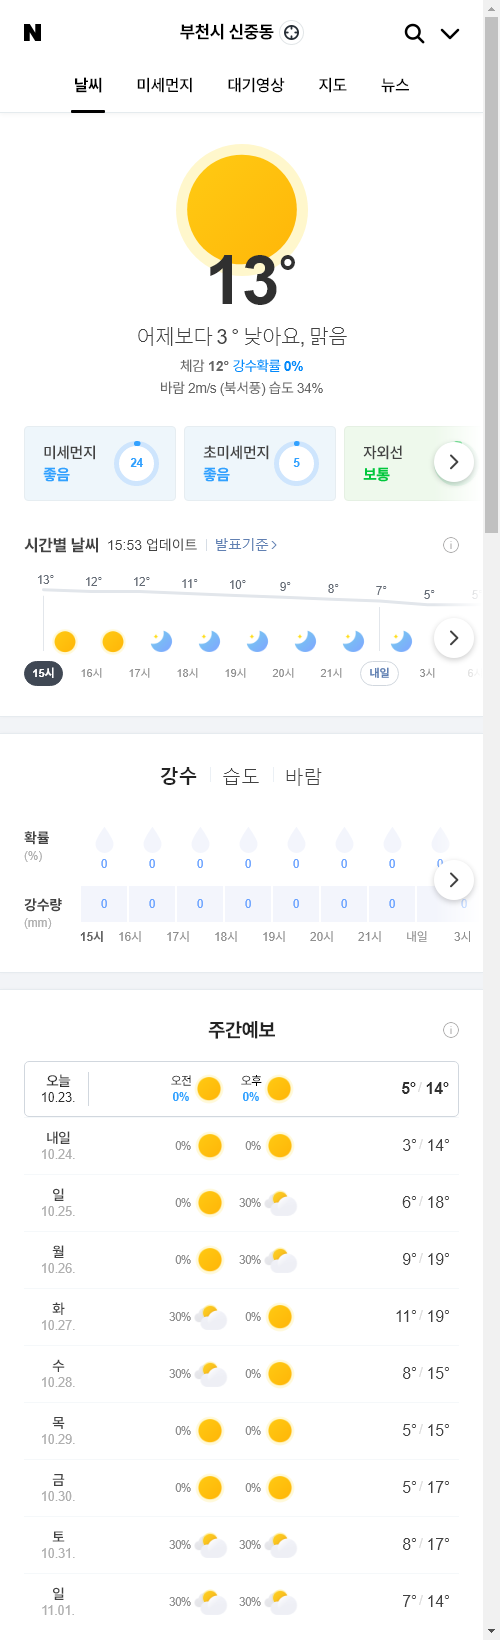
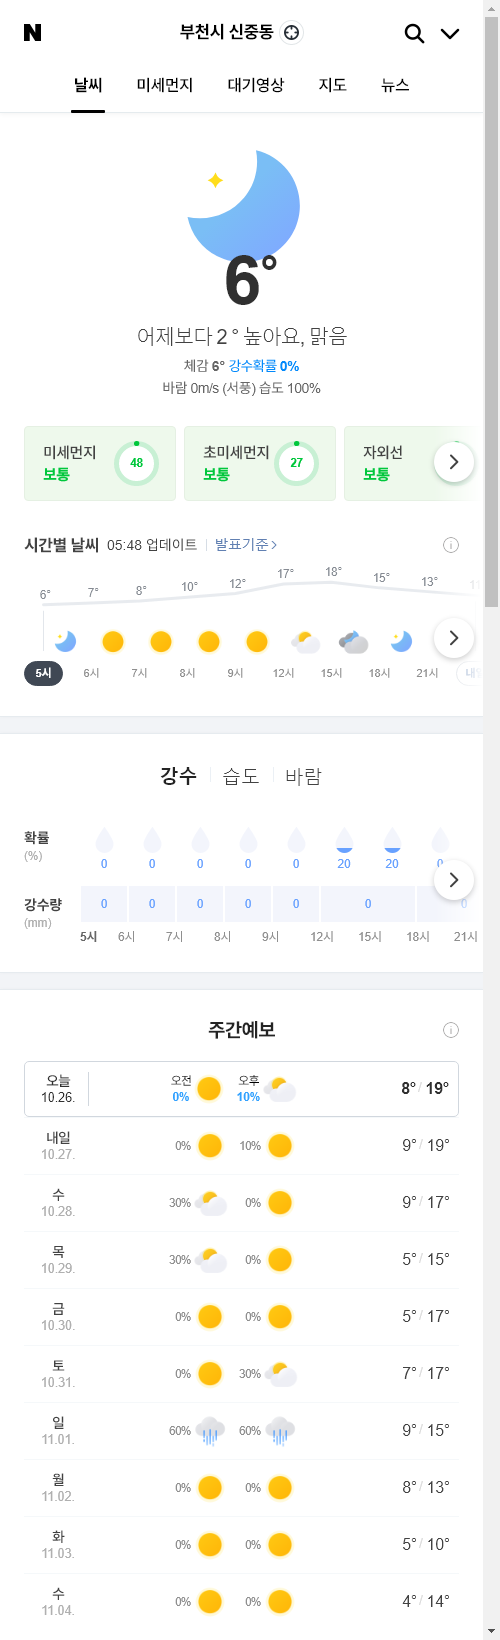
update result

diff --git a/README.md b/README.md
@@ -1,5 +1,5 @@
-##  2020-10-23 16:02:35   금요일 
-##### 날씨   -   어제보다 3 ° 낮아요, 맑음
+##  2020-10-26 05:54:33   월요일 
+##### 날씨   -   어제보다 2 ° 높아요, 맑음
 <center><img src="../img/naver_weather_week.png"></center>
 ----
 ----
@@ -13,19 +13,19 @@
 ##### 세계
 <table border="1" bordercolor="blue" align = "center" >
 <tr align = "right" > <td>Item</td><td>Point</td><td>Diff</td><td>Rate</td><td>Buy</td><td>Sell</td><td>...</td>  </tr>
-<tr align = "right" > <td>DOW</td><td>28,363.66</td><td>152.84</td><td><font size="3" color="red" >0.54%</font></td><td><font size="3" color="black">0</font></td><td><font size="3" color="black">0</font></td><td>0</td>  </tr>
-<tr align = "right" > <td>NASDAQ</td><td>11,506.01</td><td>21.32</td><td><font size="3" color="red" >0.19%</font></td><td><font size="3" color="black">0</font></td><td><font size="3" color="black">0</font></td><td>0</td>  </tr>
-<tr align = "right" > <td>S&P</td><td>3,453.49</td><td>17.93</td><td><font size="3" color="red" >0.52%</font></td><td><font size="3" color="black">0</font></td><td><font size="3" color="black">0</font></td><td>0</td>  </tr>
-<tr align = "right" > <td>SHANHAI</td><td>3,277.81</td><td>-34.69</td><td><font size="3" color="blue" >-1.05%</font></td><td><font size="3" color="black">0</font></td><td><font size="3" color="black">0</font></td><td>0</td>  </tr>
-<tr align = "right" > <td>INDIA</td><td>40,673.26</td><td>114.77</td><td><font size="3" color="red" >0.28%</font></td><td><font size="3" color="black">0</font></td><td><font size="3" color="black">0</font></td><td>0</td>  </tr>
+<tr align = "right" > <td>DOW</td><td>28,335.57</td><td>-28.09</td><td><font size="3" color="blue" >-0.1%</font></td><td><font size="3" color="black">0</font></td><td><font size="3" color="black">0</font></td><td>0</td>  </tr>
+<tr align = "right" > <td>NASDAQ</td><td>11,548.28</td><td>42.27</td><td><font size="3" color="red" >0.37%</font></td><td><font size="3" color="black">0</font></td><td><font size="3" color="black">0</font></td><td>0</td>  </tr>
+<tr align = "right" > <td>S&P</td><td>3,465.39</td><td>11.9</td><td><font size="3" color="red" >0.34%</font></td><td><font size="3" color="black">0</font></td><td><font size="3" color="black">0</font></td><td>0</td>  </tr>
+<tr align = "right" > <td>SHANHAI</td><td>3,278.0</td><td>-34.5</td><td><font size="3" color="blue" >-1.04%</font></td><td><font size="3" color="black">0</font></td><td><font size="3" color="black">0</font></td><td>0</td>  </tr>
+<tr align = "right" > <td>INDIA</td><td>40,685.5</td><td>127.01</td><td><font size="3" color="red" >0.31%</font></td><td><font size="3" color="black">0</font></td><td><font size="3" color="black">0</font></td><td>0</td>  </tr>
 </table>
 ----
 ##### 시장
 <table border="1" bordercolor="blue" align = "center" >
 <tr align = "right" > <td>Item</td><td>Price</td><td>Diff</td><td>Rate</td><td>Buy</td><td>Sell</td><td>...</td>  </tr>
-<tr align = "right" > <td>USD</td><td>1,133.0</td><td>-2.0</td><td><font size="3" color="blue">-0.18%</font></td><td><font size="3" color="black">1,110</font></td><td><font size="3" color="black">0</font></td><td>0</td>  </tr>
-<tr align = "right" > <td>WTI</td><td>40.64</td><td>0.61</td><td><font size="3" color="red">1.52%</font></td><td><font size="3" color="black">29.0</font></td><td><font size="3" color="black">0</font></td><td>0</td>  </tr>
-<tr align = "right" > <td>GOLD</td><td>1,901.0</td><td>-24.1</td><td><font size="3" color="blue">-1.25%</font></td><td><font size="3" color="black">0</font></td><td><font size="3" color="black">0</font></td><td>0</td>  </tr>
+<tr align = "right" > <td>USD</td><td>1,128.0</td><td>-6.5</td><td><font size="3" color="blue">-0.57%</font></td><td><font size="3" color="black">1,110</font></td><td><font size="3" color="black">0</font></td><td>0</td>  </tr>
+<tr align = "right" > <td>WTI</td><td>39.85</td><td>-0.79</td><td><font size="3" color="blue">-1.94%</font></td><td><font size="3" color="black">29.0</font></td><td><font size="3" color="black">0</font></td><td>0</td>  </tr>
+<tr align = "right" > <td>GOLD</td><td>1,902.0</td><td>0.7</td><td><font size="3" color="red">0.03%</font></td><td><font size="3" color="black">0</font></td><td><font size="3" color="black">0</font></td><td>0</td>  </tr>
 </table>
 ----
 ##### 주가
